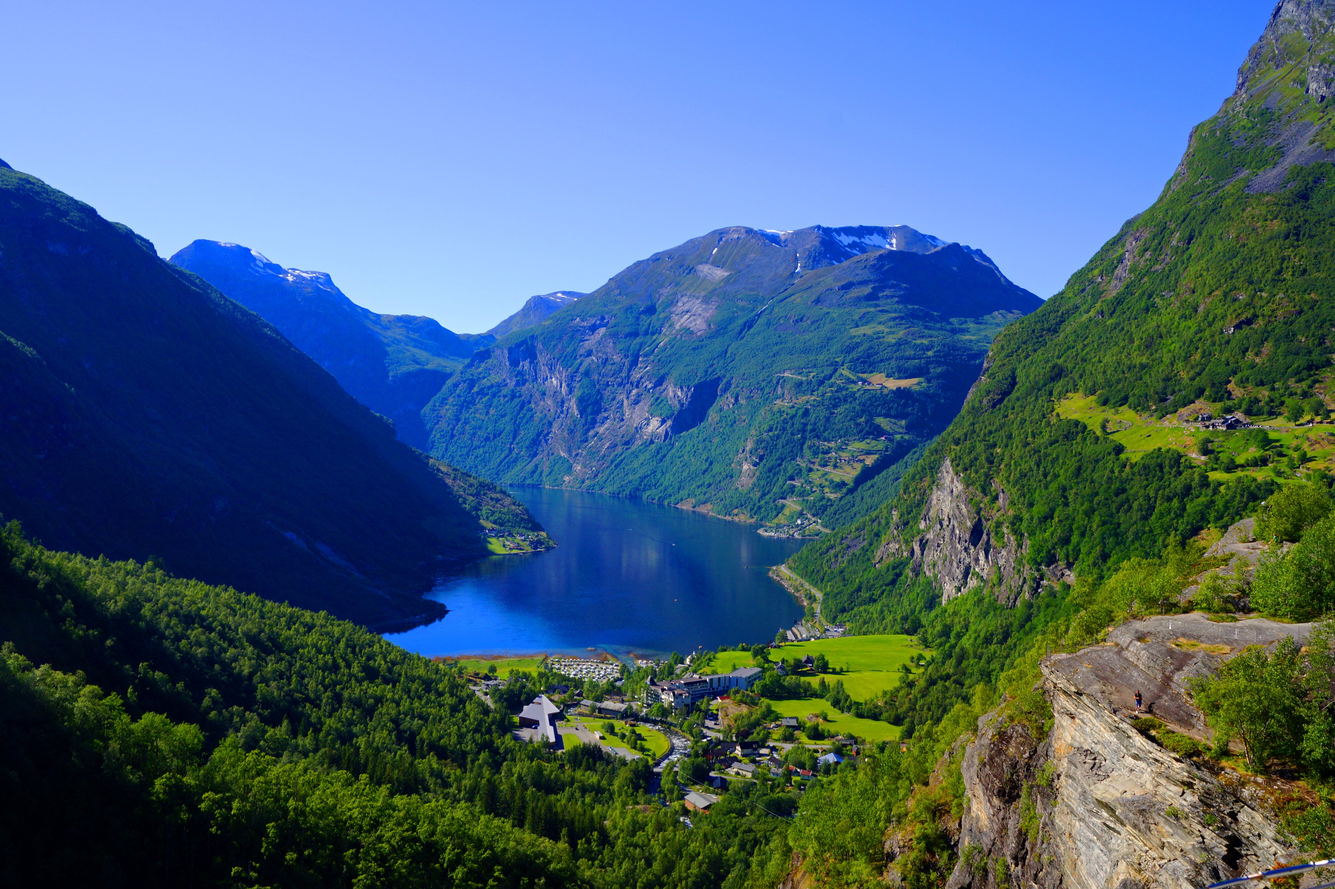
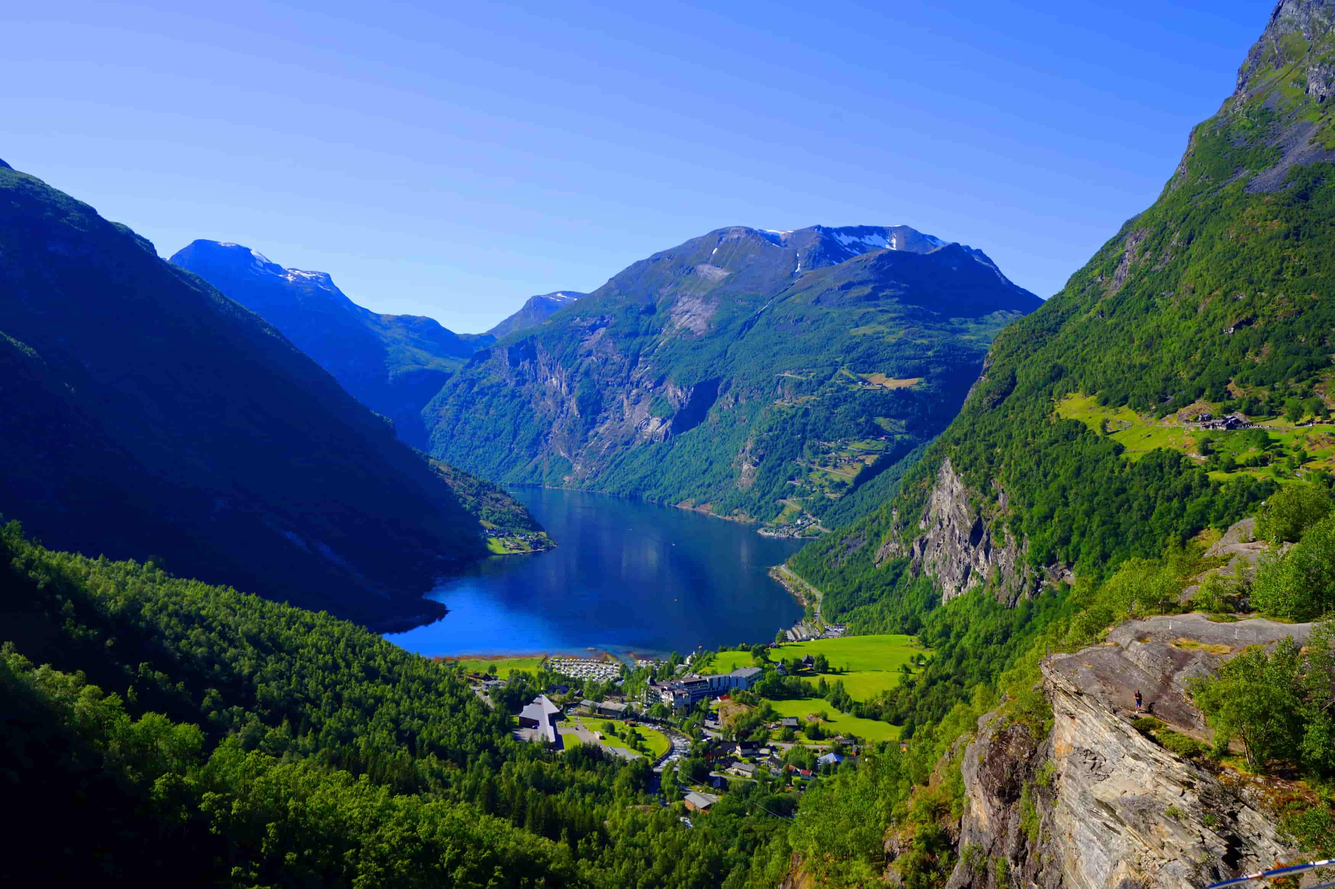
btn fix

diff --git a/src/App.css b/src/App.css
@@ -6,8 +6,5 @@
 	margin: 0px;
 	padding: 0px;
 	min-width: 320px;
-	background-image: url("https://storage.123fakturere.no/public/wallpapers/geiranger.jpg");
-	background-size: cover;
-	background-position: center;
-	background-repeat: no-repeat;
+	
 }

diff --git a/src/pages/terms/Terms.scss b/src/pages/terms/Terms.scss
@@ -1,5 +1,5 @@
 .terms-top {
-	background-image: url("https://storage.123fakturere.no/public/wallpapers/geiranger.jpg");
+	background-image: url("/geiranger.jpg");
 	background-size: cover;
 	background-position: center;
 	background-repeat: no-repeat;
